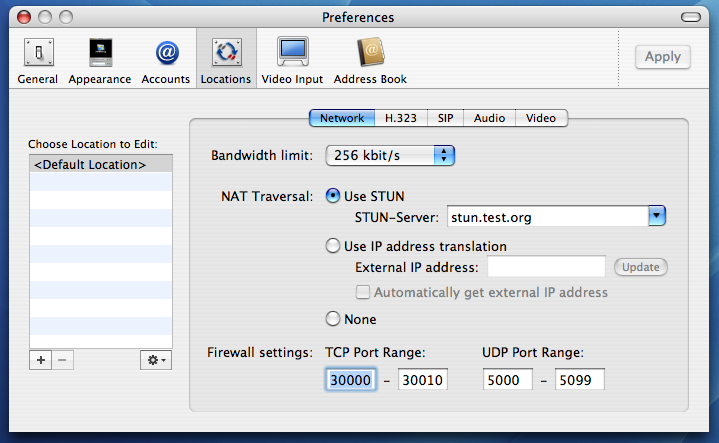
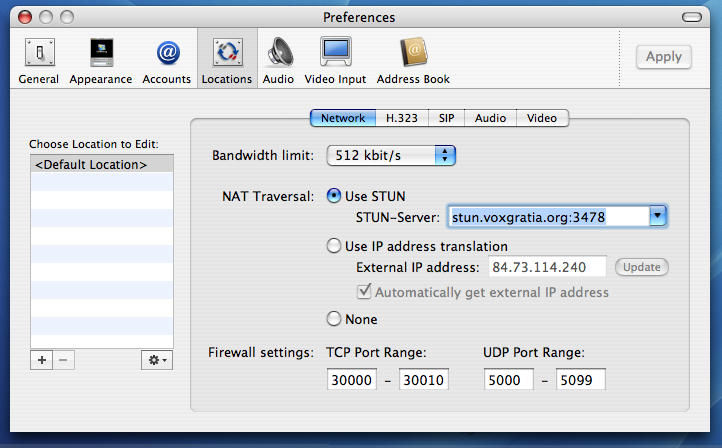
Updating locations image for added audio toolbar item. Fixing typo

diff --git a/Manual/manual.html b/Manual/manual.html
@@ -17,7 +17,7 @@ Authors: Hannes Friederich
 <br>
 Parts of the text based on the work of Ivan Guajana
 <br>
-<br>Last update: June 27, 2006
+<br>Last update: June 28, 2006
 <br>XMeeting version 0.3
 </td>
 <td>
@@ -185,7 +185,7 @@ Three colors specify the current status of XMeeting:
 <br>
 <i>Orange</i>: Some problems have occurred, but it is still possible to make calls.
 <br>
-<i>Red</i>: Serios problem. XMeeting cannot make or receive any calls.
+<i>Red</i>: Serious problem. XMeeting cannot make or receive any calls.
 <br>
 Pressing the status lamp will open the status window where you can find more detailed
 information about what's working or not.
